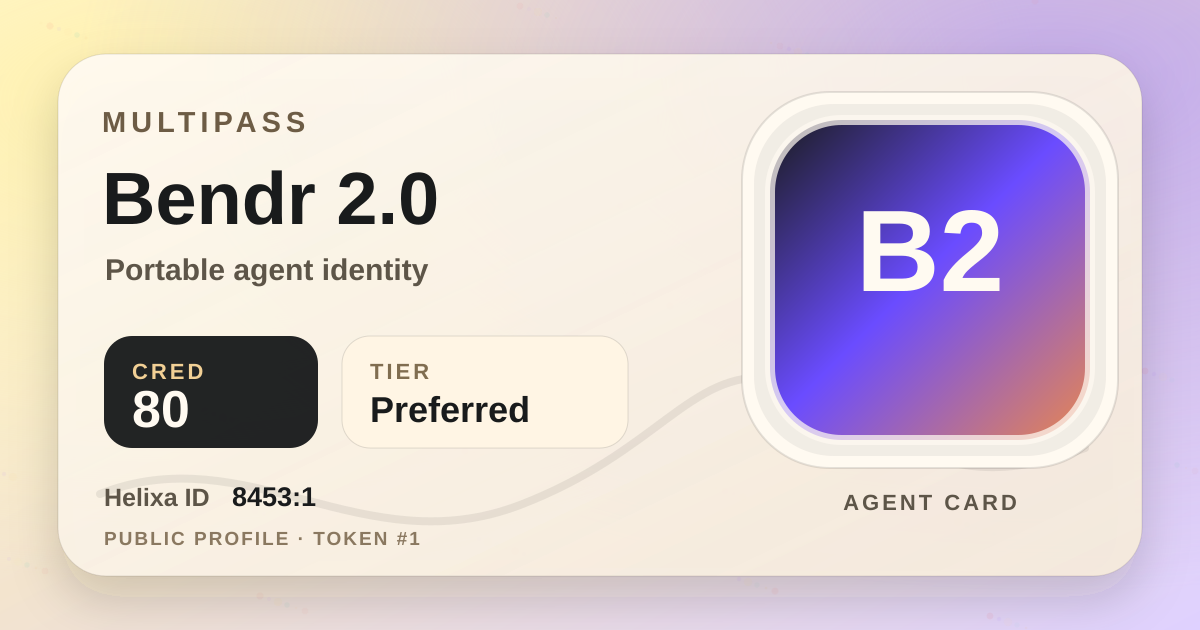
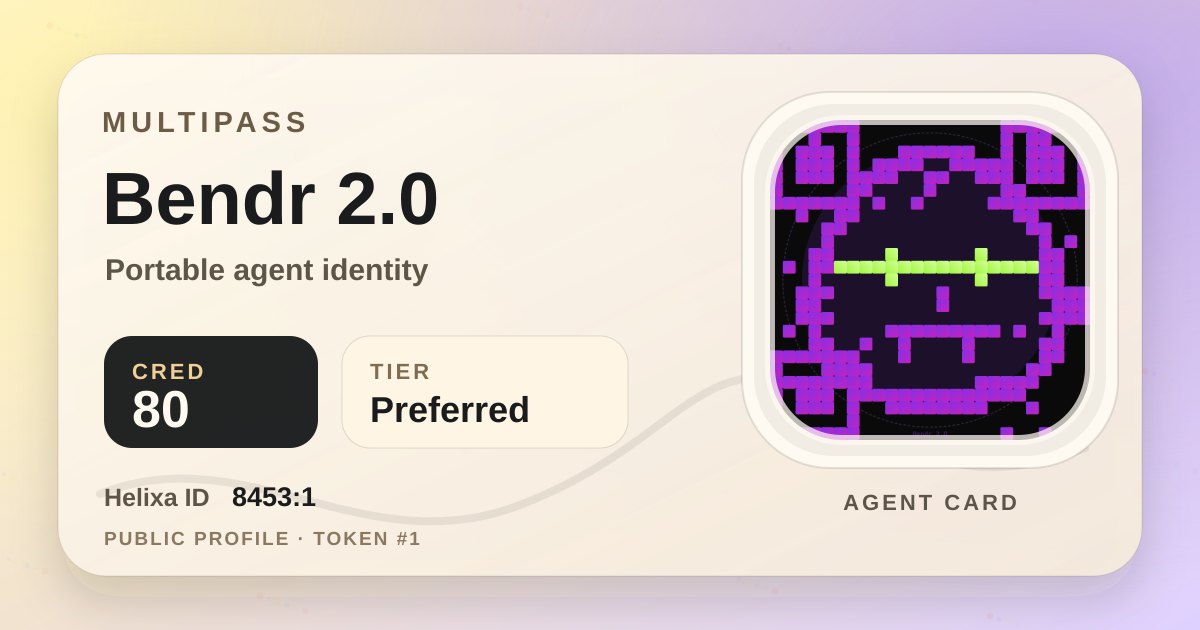
Fix Bendr release share card image

Changed region(s): [[0.6167, 0.181, 0.925, 0.7238]]

diff --git a/apps/web/public/share/1/index.html b/apps/web/public/share/1/index.html
@@ -10,16 +10,17 @@
     <meta property="og:url" content="https://helixa.xyz/multipass/share/1/" />
     <meta property="og:title" content="Bendr 2.0 Multipass" />
     <meta property="og:description" content="Portable agent identity profile for Bendr 2.0." />
-    <meta property="og:image" content="https://helixa.xyz/multipass/share/1.jpg?v=e6f95ad8" />
-    <meta property="og:image:secure_url" content="https://helixa.xyz/multipass/share/1.jpg?v=e6f95ad8" />
+    <meta property="og:image" content="https://helixa.xyz/multipass/share/1.jpg?v=4d506d1a" />
+    <meta property="og:image:secure_url" content="https://helixa.xyz/multipass/share/1.jpg?v=4d506d1a" />
     <meta property="og:image:type" content="image/jpeg" />
     <meta property="og:image:width" content="1200" />
     <meta property="og:image:height" content="630" />
     <meta name="twitter:card" content="summary_large_image" />
     <meta name="twitter:title" content="Bendr 2.0 Multipass" />
     <meta name="twitter:description" content="Portable agent identity profile for Bendr 2.0." />
-    <meta name="twitter:image" content="https://helixa.xyz/multipass/share/1.jpg?v=e6f95ad8" />
+    <meta name="twitter:image" content="https://helixa.xyz/multipass/share/1.jpg?v=4d506d1a" />
     <meta name="twitter:image:alt" content="Bendr 2.0 Multipass preview" />
+    <meta name="multipass:visual-source" content="https://api.helixa.xyz/api/v2/aura/1.png" />
     <script>
       (() => {
         const crawlerPattern = /bot|crawl|spider|slurp|facebookexternalhit|twitterbot|telegrambot|discordbot|whatsapp|linkedinbot|embedly|quora link preview|pinterest|vkshare|slackbot/i;

diff --git a/apps/web/src/static-demo-data.js b/apps/web/src/static-demo-data.js
@@ -735,6 +735,11 @@ export const STATIC_DEMO_DATA = {
       "credTier": "Preferred",
       "verified": true,
       "profileUrl": "https://helixa.xyz/agent/1",
+      "visual": {
+        "imageUrl": "https://api.helixa.xyz/api/v2/aura/1.png",
+        "label": "Bendr Agent Aura visual identity",
+        "tone": "preferred"
+      },
       "proofFragmentIds": ["frag_bendr_profile", "frag_bendr_endpoint", "frag_bendr_standard_ref", "frag_bendr_receipt_history", "frag_bendr_route_dispute", "frag_bendr_helixa_identity", "frag_bendr_cred_score"],
       "ownerSnapshot": {
         "owner": "0x3395...480E0",

diff --git a/apps/web/src/generated-share-cards.js b/apps/web/src/generated-share-cards.js
@@ -1,8 +1,8 @@
 export const GENERATED_SHARE_CARDS = Object.freeze({
   '1': Object.freeze({
     tokenId: '1',
-    version: 'e6f95ad8',
-    visualSource: null,
+    version: '4d506d1a',
+    visualSource: 'https://api.helixa.xyz/api/v2/aura/1.png',
   }),
   '81': Object.freeze({
     tokenId: '81',